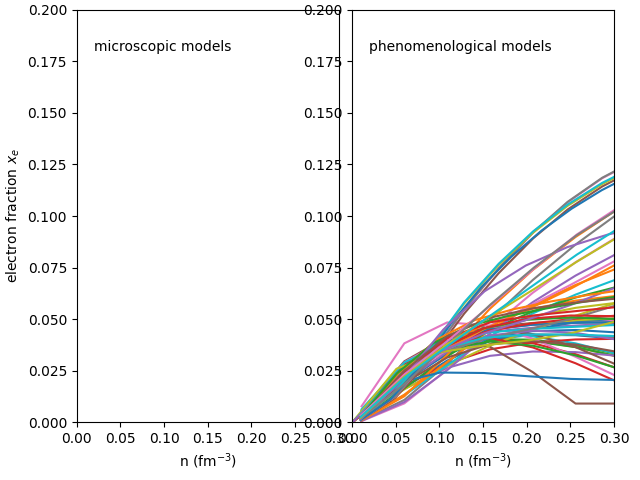
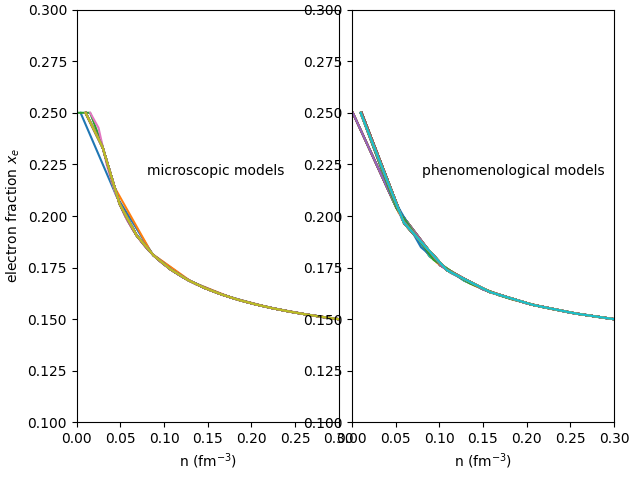
improve the asymmetric matter module (eos)

diff --git a/version1.0/nucleardatapy_samples/plots/plot_eos_setupAMLeq.py b/version1.0/nucleardatapy_samples/plots/plot_eos_setupAMLeq.py
@@ -13,6 +13,7 @@ def plot_eos_setupAMLeq_xe( pname, models_micro, models_pheno ):
     #
     # xe at beta-equilibrium
     #
+    asy = 0.5
     print(f'Plot name: {pname}')
     #
     fig, axs = plt.subplots(1,2)
@@ -22,22 +23,23 @@ def plot_eos_setupAMLeq_xe( pname, models_micro, models_pheno ):
     axs[0].set_xlabel(r'n (fm$^{-3}$)')
     axs[0].set_ylabel(r'electron fraction $x_e$')
     axs[0].set_xlim([0, 0.3])
-    axs[0].set_ylim([0, 0.2])
+    axs[0].set_ylim([0.1, 0.3])
     #
     axs[1].set_xlabel(r'n (fm$^{-3}$)')
     #axs[1].set_ylabel(r'electron fraction $x_e$')
     axs[1].set_xlim([0, 0.3])
-    axs[1].set_ylim([0, 0.2])
+    axs[1].set_ylim([0.1, 0.3])
     #
     for model in models_micro:
         #
-        beta = nuda.eos.setupAMLeq( model = model, kind = 'micro' )
+        beta = nuda.eos.setupAMLeq( model = model, kind = 'micro', asy = asy )
         if nuda.env.verb_output: beta.print_outputs( )
         #
         if beta.esym is not None: 
             print('model:',model)
-            axs[0].plot( beta.den, beta.x_e, marker='o', linestyle=beta.linestyle, label=beta.label, markevery=beta.every )
-    axs[0].text(0.02,0.18,'microscopic models',fontsize='10')
+            axs[0].plot( beta.den, beta.x_e, linestyle=beta.linestyle, label=beta.label, markevery=beta.every )
+            #axs[0].plot( beta.den, beta.x_e, marker='o', linestyle=beta.linestyle, label=beta.label, markevery=beta.every )
+    axs[0].text(0.08,0.22,'microscopic models',fontsize='10')
     #axs[0].legend(loc='upper left',fontsize='8', ncol=3)
     #
     for model in models_pheno:
@@ -46,14 +48,14 @@ def plot_eos_setupAMLeq_xe( pname, models_micro, models_pheno ):
         #
         for param in params:
             #
-            beta = nuda.eos.setupAMBeq( model = model, param = param, kind = 'pheno' )
+            beta = nuda.eos.setupAMLeq( model = model, param = param, kind = 'pheno', asy = asy )
             if beta.esym is not None: 
                 print('model:',model,' param:',param)
                 #beta.label=None
                 axs[1].plot( beta.den, beta.x_e, linestyle=beta.linestyle, label=beta.label, markevery=beta.every )
             if nuda.env.verb_output: pheno.print_outputs( )
     #
-    axs[1].text(0.02,0.18,'phenomenological models',fontsize='10')
+    axs[1].text(0.08,0.22,'phenomenological models',fontsize='10')
     #
     plt.savefig(pname)
     plt.close()
@@ -62,6 +64,7 @@ def plot_eos_setupAMLeq_xmu( pname, models_micro, models_pheno ):
     #
     # xmu at beta-equilibrium
     #
+    asy = 0.5
     print(f'Plot name: {pname}')
     #
     fig, axs = plt.subplots(1,2)
@@ -71,22 +74,22 @@ def plot_eos_setupAMLeq_xmu( pname, models_micro, models_pheno ):
     axs[0].set_xlabel(r'n (fm$^{-3}$)')
     axs[0].set_ylabel(r'muon fraction $x_\mu$')
     axs[0].set_xlim([0, 0.3])
-    axs[0].set_ylim([0, 0.2])
+    axs[0].set_ylim([0, 0.15])
     #
     axs[1].set_xlabel(r'n (fm$^{-3}$)')
     #axs[1].set_ylabel(r'muon fraction $x_\mu$')
     axs[1].set_xlim([0, 0.3])
-    axs[1].set_ylim([0, 0.2])
+    axs[1].set_ylim([0, 0.15])
     #
     for model in models_micro:
         #
-        beta = nuda.eos.setupAMLeq( model = model, kind = 'micro' )
+        beta = nuda.eos.setupAMLeq( model = model, kind = 'micro', asy = asy )
         if nuda.env.verb_output: beta.print_outputs( )
         #
         if beta.esym is not None: 
             print('model:',model)
             axs[0].plot( beta.den, beta.x_mu, marker='o', linestyle=beta.linestyle, label=beta.label, markevery=beta.every )
-    axs[0].text(0.02,0.8,'microscopic models',fontsize='10')
+    axs[0].text(0.08,0.12,'microscopic models',fontsize='10')
     #axs[0].legend(loc='upper left',fontsize='8', ncol=3)
     #
     for model in models_pheno:
@@ -95,17 +98,73 @@ def plot_eos_setupAMLeq_xmu( pname, models_micro, models_pheno ):
         #
         for param in params:
             #
-            beta = nuda.eos.setupAMLeq( model = model, param = param, kind = 'pheno' )
+            beta = nuda.eos.setupAMLeq( model = model, param = param, kind = 'pheno', asy = asy )
             if beta.esym is not None: 
                 print('model:',model,' param:',param)
                 #beta.label=None
                 axs[1].plot( beta.den, beta.x_mu, linestyle=beta.linestyle, label=beta.label, markevery=beta.every )
             if nuda.env.verb_output: pheno.print_outputs( )
     #
-    axs[1].text(0.02,0.18,'phenomenological models',fontsize='10')
+    axs[1].text(0.08,0.12,'phenomenological models',fontsize='10')
     #
     plt.savefig(pname)
     plt.close()
+
+def plot_eos_setupAMLeq_xexmu( pname, models_micro, models_pheno ):
+    #
+    # E/A for a given asymmetry parameter asy
+    #
+    print(f'Plot name: {pname}')
+    #
+    fig, axs = plt.subplots(1,1)
+    #fig.tight_layout() # Or equivalently,  "plt.tight_layout()"
+    fig.subplots_adjust(left=0.12, bottom=0.12, right=None, top=0.95, wspace=0.3, hspace=0.3 )
+    #
+    axs.set_xlabel(r'n (fm$^{-3}$)',fontsize='10')
+    axs.set_ylabel(r'$x_e$, $x_\mu$',fontsize='10')
+    axs.set_xlim([0, 0.3])
+    axs.set_ylim([0, 0.5])
+    #
+    asys = [ 0.1, 0.3, 0.5, 0.7, 0.9 ]
+    #asys = [ 0.5 ]
+    #
+    for inda,asy in enumerate(asys):
+        #
+        for model in models_micro:
+            #
+            continue
+            am = nuda.eos.setupAMLeq( model = model, kind = 'micro', asy = asy )
+            if nuda.env.verb_output: am.print_outputs( )
+            #
+            if am.esym is not None: 
+                print('model:',model)
+                axs.plot( am.den, am.x_mu, marker='o', linestyle=am.linestyle, label=am.label, markevery=am.every )
+        #axs[0].text(0.02,12,'microscopic models',fontsize='10')
+        #axs[0].text(0.02,10,'for $\delta=$'+str(asy),fontsize='10')
+        #
+        for model in models_pheno:
+            #
+            params, params_lower = nuda.matter.pheno_esym_params( model = model )
+            #
+            for param in params:
+                #
+                am = nuda.eos.setupAMLeq( model = model, param = param, kind = 'pheno', asy = asy )
+                if am.esym is not None: 
+                    print('model:',model,' param:',param)
+                    #beta.label=None
+                    axs.plot( am.den, am.x_e, linestyle='solid', label='$\delta=$'+str(asy), color=nuda.param.col[inda] )
+                    axs.plot( am.den, am.x_mu, linestyle='dashed', color=nuda.param.col[inda] )
+                if nuda.env.verb_output: pheno.print_outputs( )
+                break
+        #
+        axs.legend(loc='upper right',fontsize='10',ncol=3)
+        axs.text(0.05,0.35,'$x_e$',fontsize='14')
+        axs.text(0.02,0.10,'$x_\mu$',fontsize='14')
+    #
+    plt.savefig(pname)
+    plt.close()
+
+
 
 def main():
     #
@@ -139,6 +198,11 @@ def main():
     #
     pname = 'figs/plot_eos_setupAMLeq_xmu.png'
     plot_eos_setupAMLeq_xmu( pname, micro_models, pheno_models )
+    #
+    micro_models = [ ]
+    pheno_models = [ 'DDRHF' ]
+    pname = 'figs/plot_eos_setupAMLeq_xexmu.png'
+    plot_eos_setupAMLeq_xexmu( pname, micro_models, pheno_models )
     #
     print(50*'-')
     print("Exit plot_eos_setupAMLeq.py:")

diff --git a/version1.0/nucleardatapy_samples/plots/plot_eos_setupAM.py b/version1.0/nucleardatapy_samples/plots/plot_eos_setupAM.py
@@ -36,7 +36,9 @@ def plot_eos_setupAM_e( pname, models_micro, models_pheno, asy ):
         #
         if am.esym is not None: 
             print('model:',model)
-            axs[0].plot( am.den, am.e2a, marker='o', linestyle=am.linestyle, label=am.label, markevery=am.every )
+            #print('den:',am.den)
+            #print('e2a:',am.e2a_nuc)
+            axs[0].plot( am.den, am.e2a_nuc, marker='o', linestyle=am.linestyle, label=am.label, markevery=am.every )
     axs[0].text(0.02,12,'microscopic models',fontsize='10')
     axs[0].text(0.02,10,'for $\delta=$'+str(asy),fontsize='10')
     #axs[0].legend(loc='upper left',fontsize='8', ncol=3)
@@ -52,7 +54,7 @@ def plot_eos_setupAM_e( pname, models_micro, models_pheno, asy ):
             if am.esym is not None: 
                 print('model:',model,' param:',param)
                 #beta.label=None
-                axs[1].plot( am.den, am.e2a, linestyle=am.linestyle, label=am.label, markevery=am.every )
+                axs[1].plot( am.den, am.e2a_nuc, linestyle=am.linestyle, label=am.label, markevery=am.every )
             if nuda.env.verb_output: pheno.print_outputs( )
     #
     #axs[1].fill_between( band.den, y1=(band.e2a-band.e2a_std), y2=(band.e2a+band.e2a_std), color=band.color, alpha=band.alpha, visible=True )
@@ -65,60 +67,6 @@ def plot_eos_setupAM_e( pname, models_micro, models_pheno, asy ):
     #axs[1].legend(loc='lower center',bbox_to_anchor=(0.5,1.02),mode='expand',columnspacing=0,fontsize='8', ncol=2,frameon=False)
     #fig.legend(loc='lower center',bbox_to_anchor=(0.5,1.02),mode='expand',columnspacing=0,fontsize='8', ncol=2,frameon=False)
     #plt.tight_layout(rect=[0,0,1,0.95])
-    #
-    plt.savefig(pname)
-    plt.close()
-
-def plot_eos_setupAM_xmu( pname, models_micro, models_pheno ):
-    #
-    # E/A for a given asymmetry parameter asy
-    #
-    print(f'Plot name: {pname}')
-    #
-    fig, axs = plt.subplots(1,1)
-    #fig.tight_layout() # Or equivalently,  "plt.tight_layout()"
-    fig.subplots_adjust(left=0.12, bottom=0.12, right=None, top=0.95, wspace=0.3, hspace=0.3 )
-    #
-    axs.set_xlabel(r'n (fm$^{-3}$)',fontsize='10')
-    axs.set_ylabel(r'$x_e$, $x_\mu$',fontsize='10')
-    axs.set_xlim([0, 0.3])
-    axs.set_ylim([0, 0.5])
-    #
-    asys = [ 0.1, 0.3, 0.5, 0.7, 0.9 ]
-    #asys = [ 0.5 ]
-    #
-    for inda,asy in enumerate(asys):
-        #
-        for model in models_micro:
-            #
-            continue
-            am = nuda.eos.setupAM( model = model, kind = 'micro', asy = asy )
-            if nuda.env.verb_output: am.print_outputs( )
-            #
-            if am.esym is not None: 
-                print('model:',model)
-                axs.plot( am.den, am.x_mu, marker='o', linestyle=am.linestyle, label=am.label, markevery=am.every )
-        #axs[0].text(0.02,12,'microscopic models',fontsize='10')
-        #axs[0].text(0.02,10,'for $\delta=$'+str(asy),fontsize='10')
-        #
-        for model in models_pheno:
-            #
-            params, params_lower = nuda.matter.pheno_esym_params( model = model )
-            #
-            for param in params:
-                #
-                am = nuda.eos.setupAM( model = model, param = param, kind = 'pheno', asy = asy )
-                if am.esym is not None: 
-                    print('model:',model,' param:',param)
-                    #beta.label=None
-                    axs.plot( am.den, am.x_e, linestyle='solid', label='$\delta=$'+str(asy), color=nuda.param.col[inda] )
-                    axs.plot( am.den, am.x_mu, linestyle='dashed', color=nuda.param.col[inda] )
-                if nuda.env.verb_output: pheno.print_outputs( )
-                break
-        #
-        axs.legend(loc='upper right',fontsize='10',ncol=3)
-        axs.text(0.05,0.35,'$x_e$',fontsize='14')
-        axs.text(0.02,0.10,'$x_\mu$',fontsize='14')
     #
     plt.savefig(pname)
     plt.close()
@@ -156,11 +104,6 @@ def main():
     #
     pname = 'figs/plot_eos_setupAM_e.png'
     plot_eos_setupAM_e( pname, micro_models, pheno_models, asy )
-    #
-    micro_models = [ ]
-    pheno_models = [ 'DDRHF' ]
-    pname = 'figs/plot_eos_setupAM_xmu.png'
-    plot_eos_setupAM_xmu( pname, micro_models, pheno_models )
     #
     print(50*'-')
     print("Exit plot_eos_setupAM.py:")

diff --git a/version1.0/nucleardatapy/matter/setup_ffg.py b/version1.0/nucleardatapy/matter/setup_ffg.py
@@ -300,12 +300,12 @@ class setupFFGLep():
         #: Attribute muon Fermi energy (degeneracy = 2)
         self.eF_mu = np.sqrt( nuda.cst.mmuc2**2 + (nuda.cst.hbc*self.kf_mu)**2 )
         #: Attribute FFG energy per particle (degeneracy = 2)
-        self.e2v_el = feden( 2.0, self.kf_e, nuda.cst.mec2)
-        self.e2v_mu = feden( 2.0, self.kf_mu, nuda.cst.mmuc2)
+        self.e2v_el, self.e2a_el = feden( 2.0, self.kf_e, nuda.cst.mec2)
+        self.e2v_mu, self.e2a_mu = feden( 2.0, self.kf_mu, nuda.cst.mmuc2)
         self.e2v_lep = self.e2v_el + self.e2v_mu
-        self.e2a_el = self.e2v_el / self.den_e
+        #self.e2a_el = self.e2v_el / self.den_e
         self.e2a_el_int = self.e2a_el - nuda.cst.mec2*self.den_e/(self.den_e+self.den_mu)
-        self.e2a_mu = self.e2v_mu / self.den_mu
+        #self.e2a_mu = self.e2v_mu / self.den_mu
         self.e2a_mu_int = self.e2a_mu - nuda.cst.mmuc2*self.den_mu/(self.den_e+self.den_mu)
         self.e2a_lep = self.e2a_el + self.e2a_mu
         self.e2a_int = self.e2a_el_int + self.e2a_mu_int
